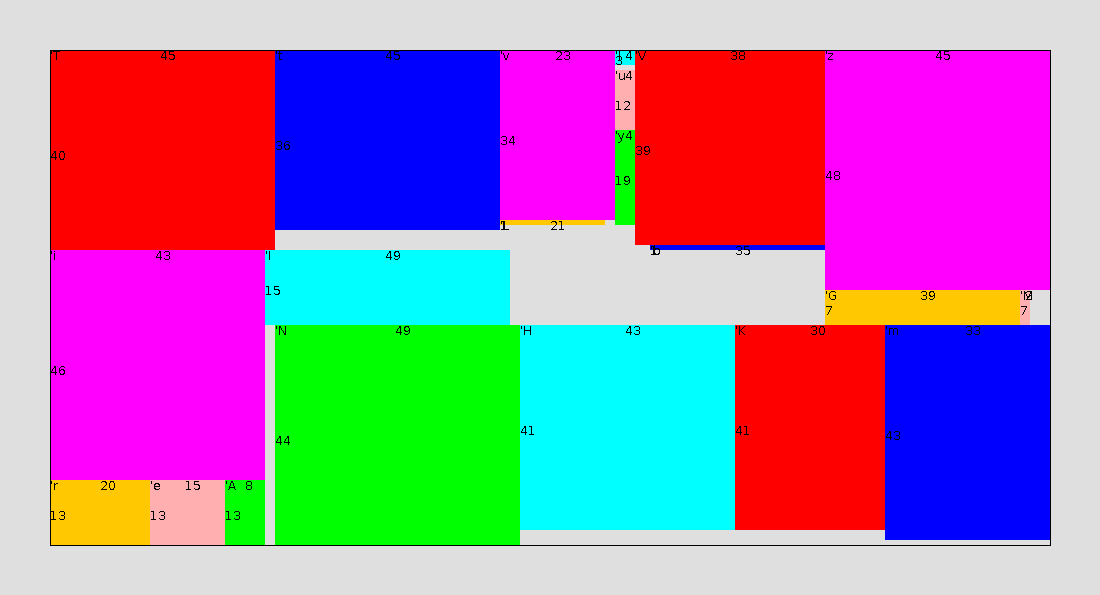
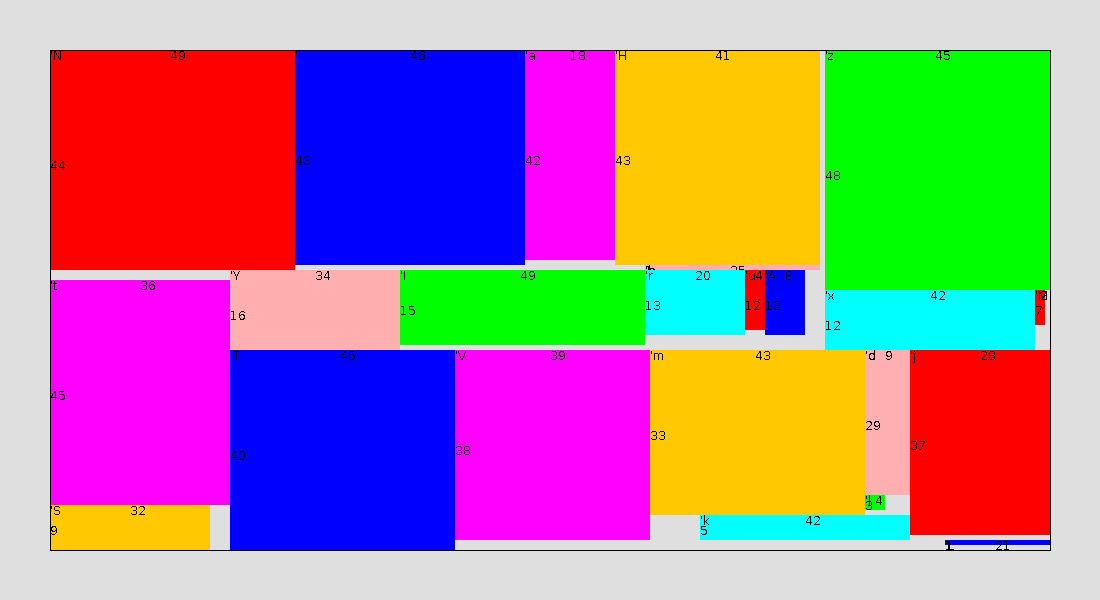
fix packing algorithm

diff --git a/package-loading-problem/README.md b/package-loading-problem/README.md
@@ -90,7 +90,7 @@ Linux 3.2.0-27-generic-pae #43-Ubuntu SMP Fri Jul 6 15:06:05 UTC 2012 i686 i686 
 
 隙間の総面積は15。
 
-![Alt blank=15 "N,b,J,l"](https://raw.github.com/tono-nakae/package-loading-problem/master/Answer1.png)
+![Alt blank=15 N,b,J,l](https://raw.github.com/tono-nakae/package-loading-problem/master/Answer1.png)
 
 ### 解答.2
 
@@ -102,6 +102,6 @@ Linux 3.2.0-27-generic-pae #43-Ubuntu SMP Fri Jul 6 15:06:05 UTC 2012 i686 i686 
         res.get.show
         res.map(PLPFrame(_, 5))
 
-隙間の総面積は1637。(制限時間1分で打ち切り)
+隙間の総面積は794。(約3秒で収束)
 
-![Alt blank=1637 "T,t,v,L,u,y,l,V,b,z,G,M,N,H,K,m,i,r,e,A,I"](https://raw.github.com/tono-nakae/package-loading-problem/master/Answer2.png)
+![Alt blank=794 N,i,a,H,b,z,x,M,T,V,m,d,l,k,j,L,t,S,Y,I,r,u,A](https://raw.github.com/tono-nakae/package-loading-problem/master/Answer2.png)
